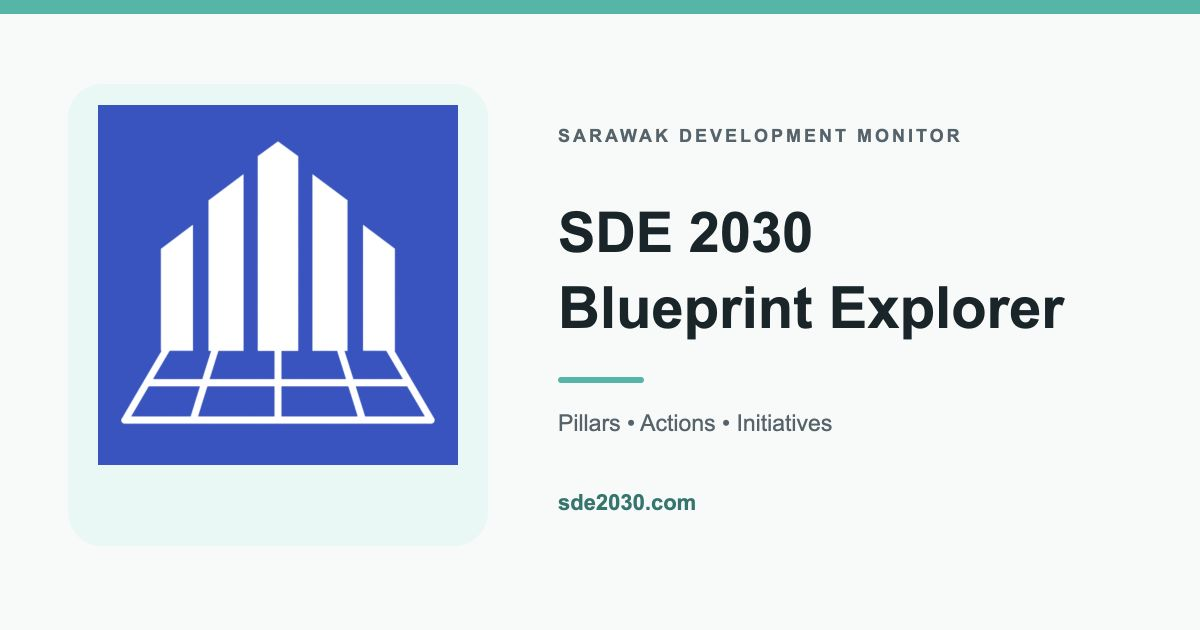
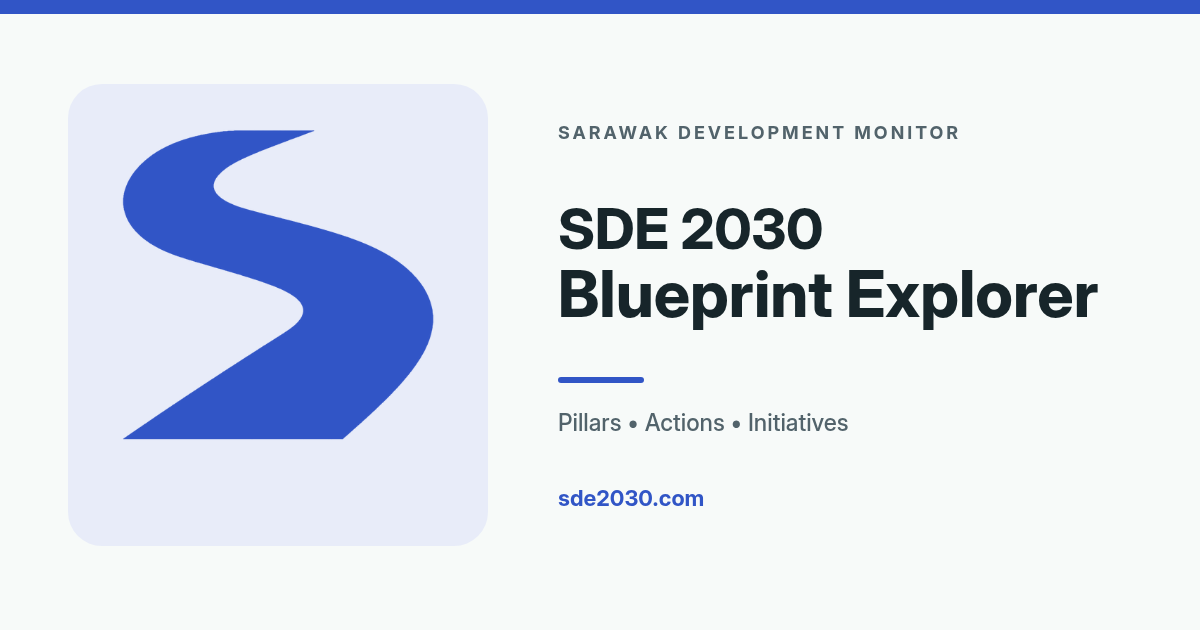
Replace production social card with approved blue PNG (#16)
Swap JPEG-masquerading social-preview-production.png for the
Nazirul-approved 1200x630 PNG and bump OG/Twitter cache-buster
to v=20261113a.

diff --git a/index.html b/index.html
@@ -102,8 +102,8 @@
     <meta property="og:title" content="__SITE_DOCUMENT_TITLE__" />
     <meta property="og:description" content="__SITE_META_DESCRIPTION__" />
     <meta property="og:url" content="https://sde2030.com/" />
-    <meta property="og:image" content="https://sde2030.com/social-preview-%MODE%.png?v=20260810a" />
-    <meta property="og:image:secure_url" content="https://sde2030.com/social-preview-%MODE%.png?v=20260810a" />
+    <meta property="og:image" content="https://sde2030.com/social-preview-%MODE%.png?v=20261113a" />
+    <meta property="og:image:secure_url" content="https://sde2030.com/social-preview-%MODE%.png?v=20261113a" />
     <meta property="og:image:type" content="image/png" />
     <meta property="og:image:width" content="1200" />
     <meta property="og:image:height" content="630" />
@@ -111,7 +111,7 @@
     <meta name="twitter:card" content="summary_large_image" />
     <meta name="twitter:title" content="__SITE_DOCUMENT_TITLE__" />
     <meta name="twitter:description" content="__SITE_META_DESCRIPTION__" />
-    <meta name="twitter:image" content="https://sde2030.com/social-preview-%MODE%.png?v=20260810a" />
+    <meta name="twitter:image" content="https://sde2030.com/social-preview-%MODE%.png?v=20261113a" />
     <meta name="twitter:image:alt" content="__SITE_DOCUMENT_TITLE__" />
     <script type="application/ld+json">
       {

diff --git a/docs/design.md b/docs/design.md
@@ -42,6 +42,10 @@ The source is archived in `assets/brand/pcds-mark-source.png`; the favicon
 generator preserves its alpha mask and applies the environment colour.
 Environment icon colours remain distinct. Do not replace the mark with a square.
 
+## Social preview
+
+Production Open Graph and Twitter card images use `public/social-preview-production.png` (1200×630 PNG). `index.html` and `scripts/prerender.mjs` point `og:image`, `og:image:secure_url`, and `twitter:image` at that file with a `?v=` cache-buster (`20261113a` for the approved blue card). Keep `og:image:type` as `image/png` and dimensions `1200`×`630`. Preview and development builds keep their own `social-preview-*.png` assets.
+
 Retain the proven PCDS tracker shell while changing the content model from project delivery to Blueprint exploration. The site should feel like a companion within the Sarawak Development Monitor family, but it must have its own SDE 2030 identity and avoid implying government affiliation.
 
 The interface now uses the PCDS V2 visual system as its reference: a compact
